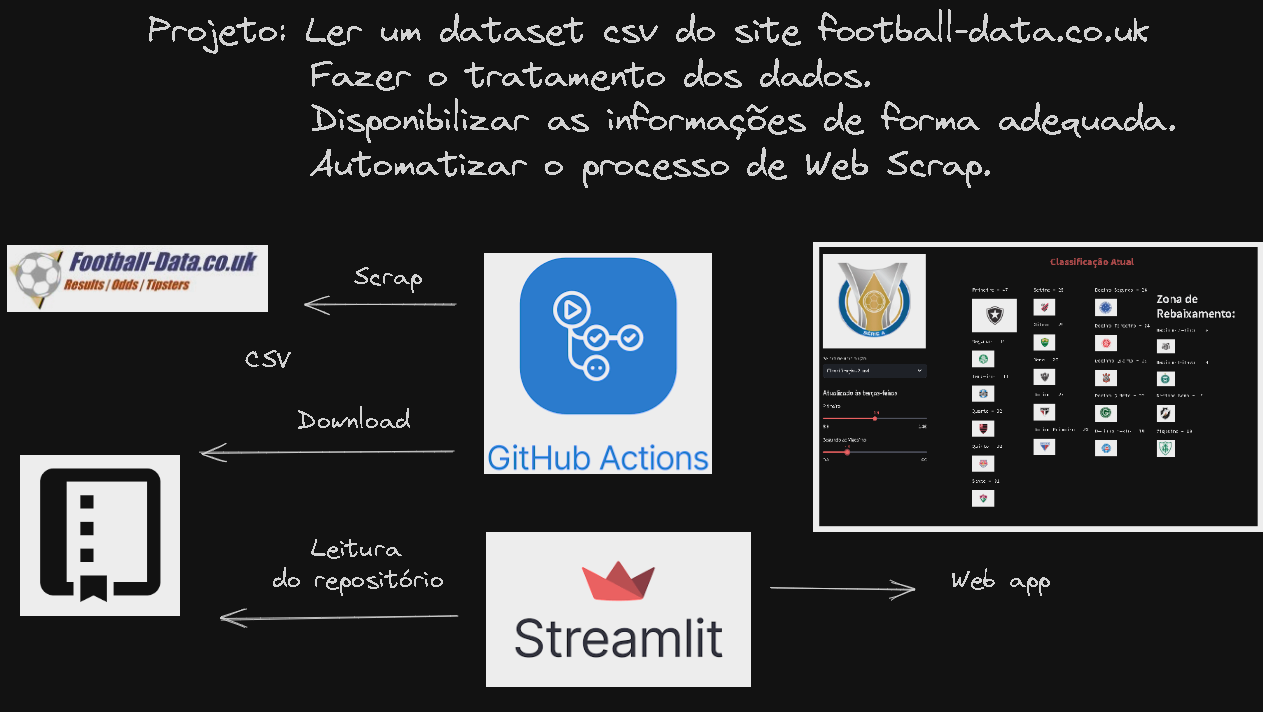
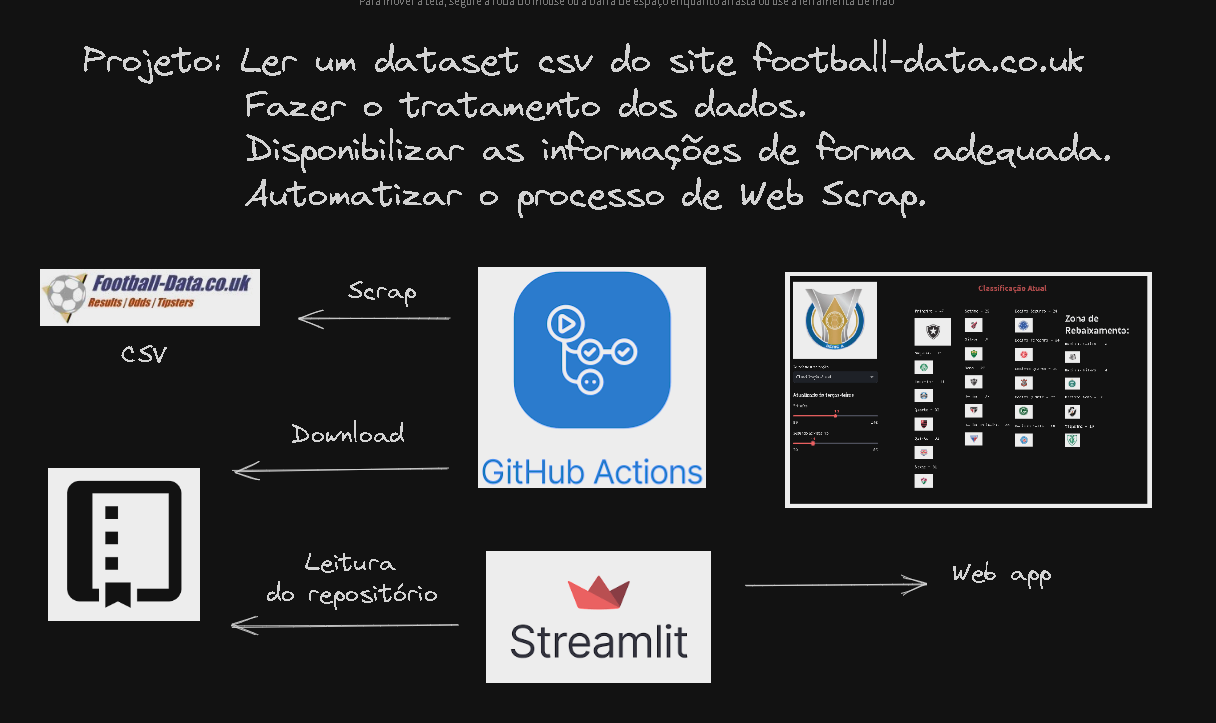
Update

diff --git a/app.py b/app.py
@@ -38,8 +38,8 @@ def main():
    
     logo_seriea  = Image.open("Images/times/logo_seriea.png")
     campo  = Image.open("Images/times/campo.png")
-    projeto  = Image.open("Images/projeto.png")
-    tela  = Image.open("Images/tela1.png")
+    projeto  = Image.open("Images/projeto2.png")
+    #tela  = Image.open("Images/tela1.png")
     
     
     botafogo = Image.open("Images/times/botafogo.png")
